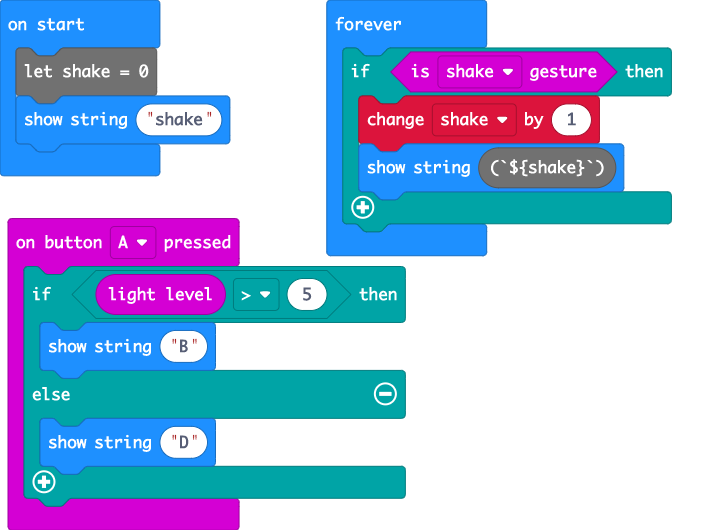
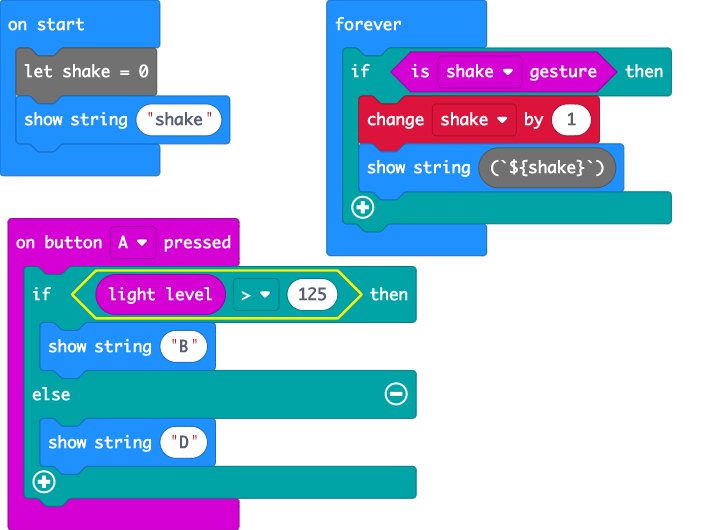
Update main.blocks, main.ts

diff --git a/main.ts b/main.ts
@@ -1,5 +1,5 @@
 input.onButtonPressed(Button.A, function () {
-    if (input.lightLevel() > 5) {
+    if (input.lightLevel() > 125) {
         basic.showString("B")
     } else {
         basic.showString("D")
